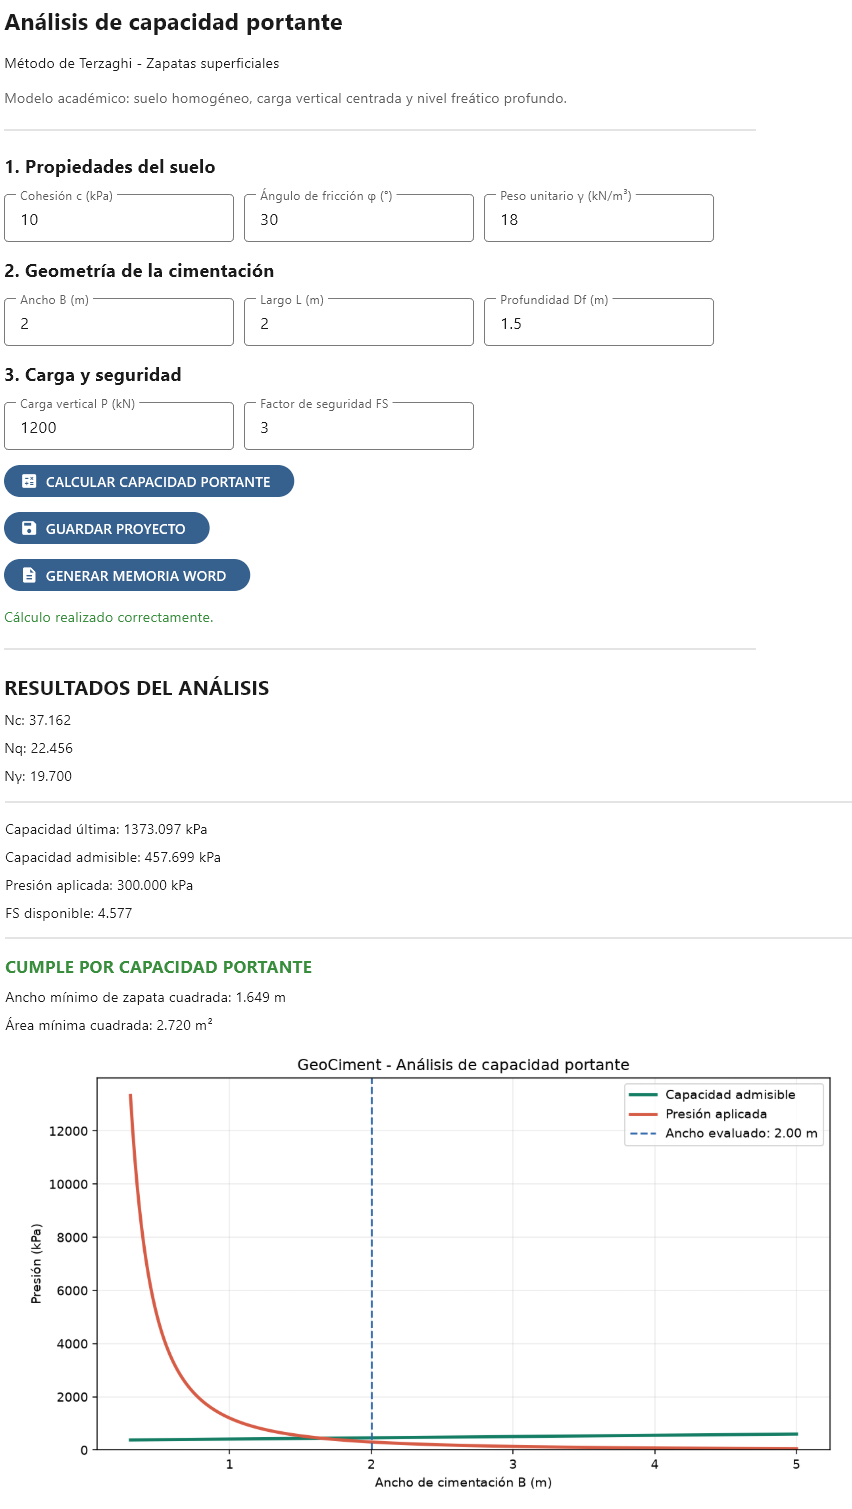
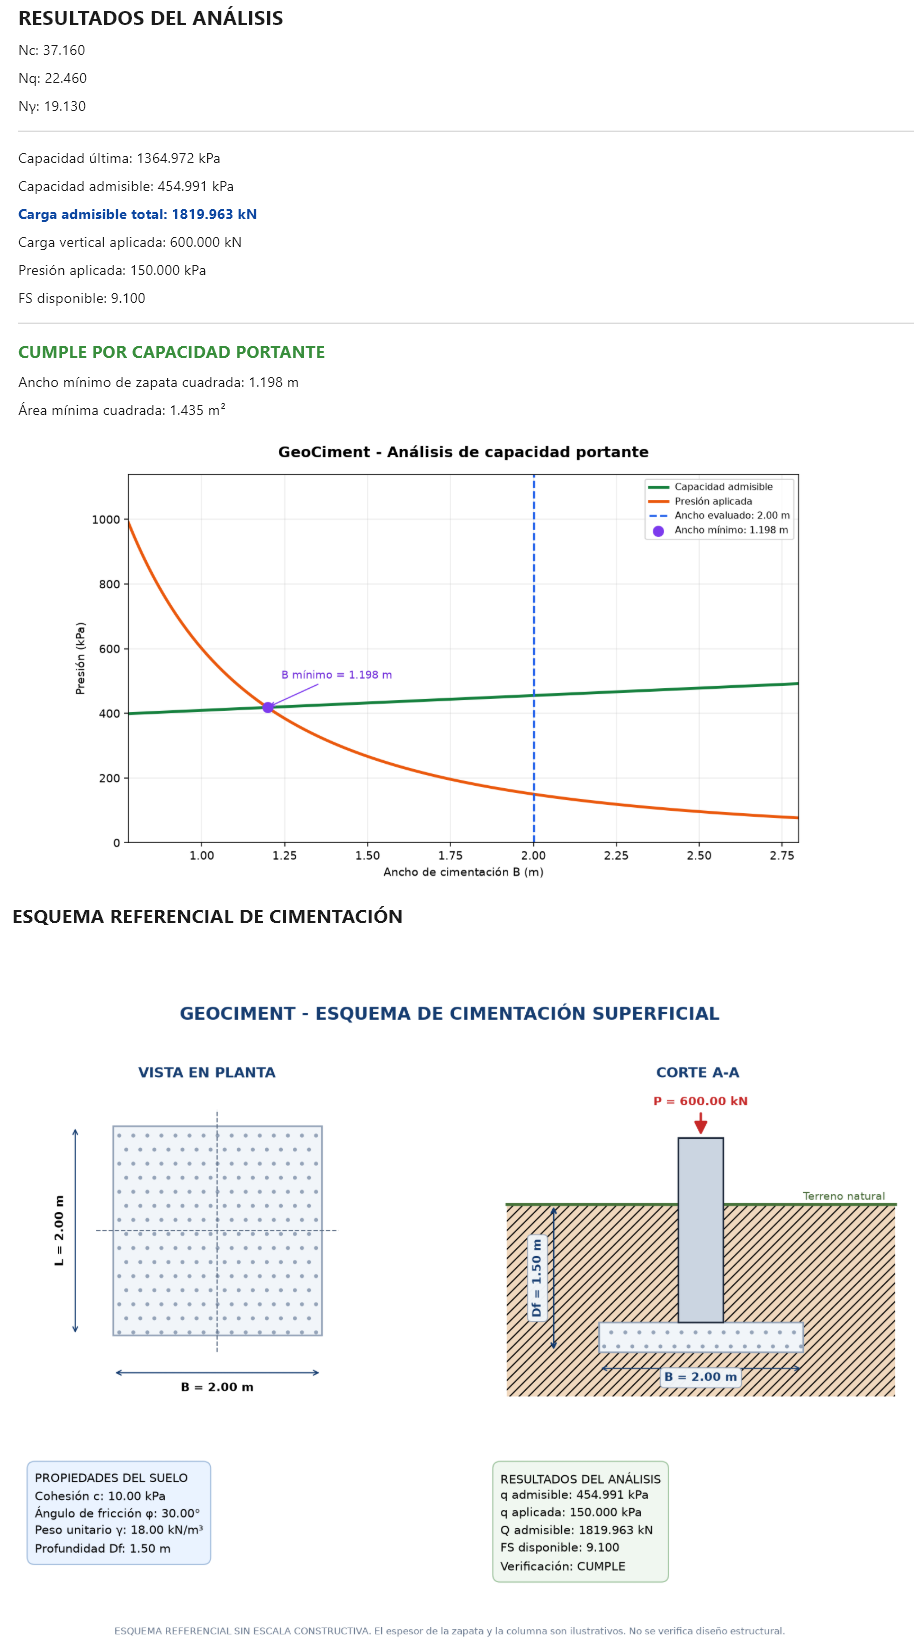
Documentar esquema y memoria Word de GeoCiment

diff --git a/README.md b/README.md
@@ -258,6 +258,15 @@ La base de datos y los reportes de trabajo se generan localmente.
 
 ![Historial SQLite](./ejemplos/historial.png)
 
+### Memoria de cálculo en Word
+
+GeoCiment genera automáticamente memorias de cálculo
+en formato DOCX, incluyendo parámetros de entrada,
+ecuaciones matemáticas editables, resultados geotécnicos,
+gráficas y el esquema referencial de cimentación.
+
+![Memoria de cálculo generada por GeoCiment](./ejemplos/memoria_word.png)
+
 ## 12. Referencia bibliográfica
 
 Terzaghi, K. (1943). *Theoretical Soil Mechanics*. John Wiley & Sons.
